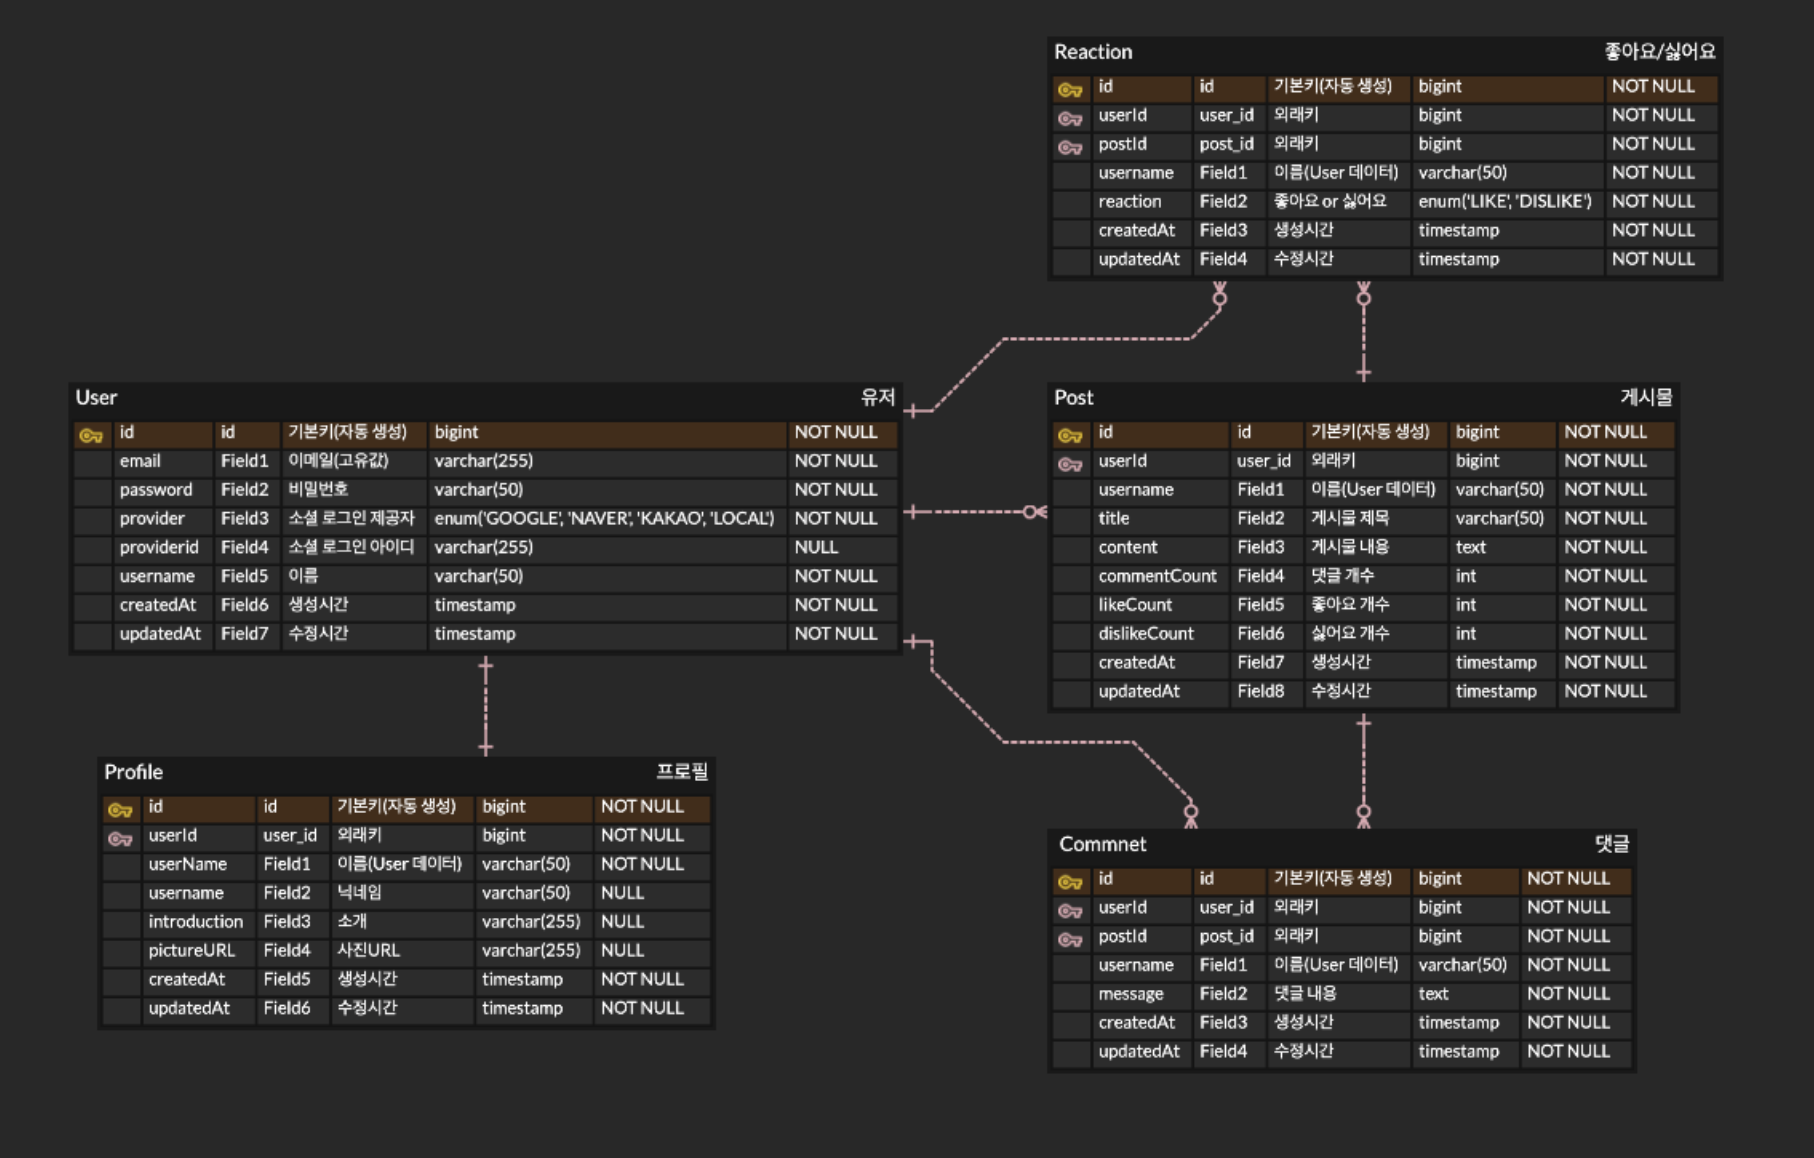
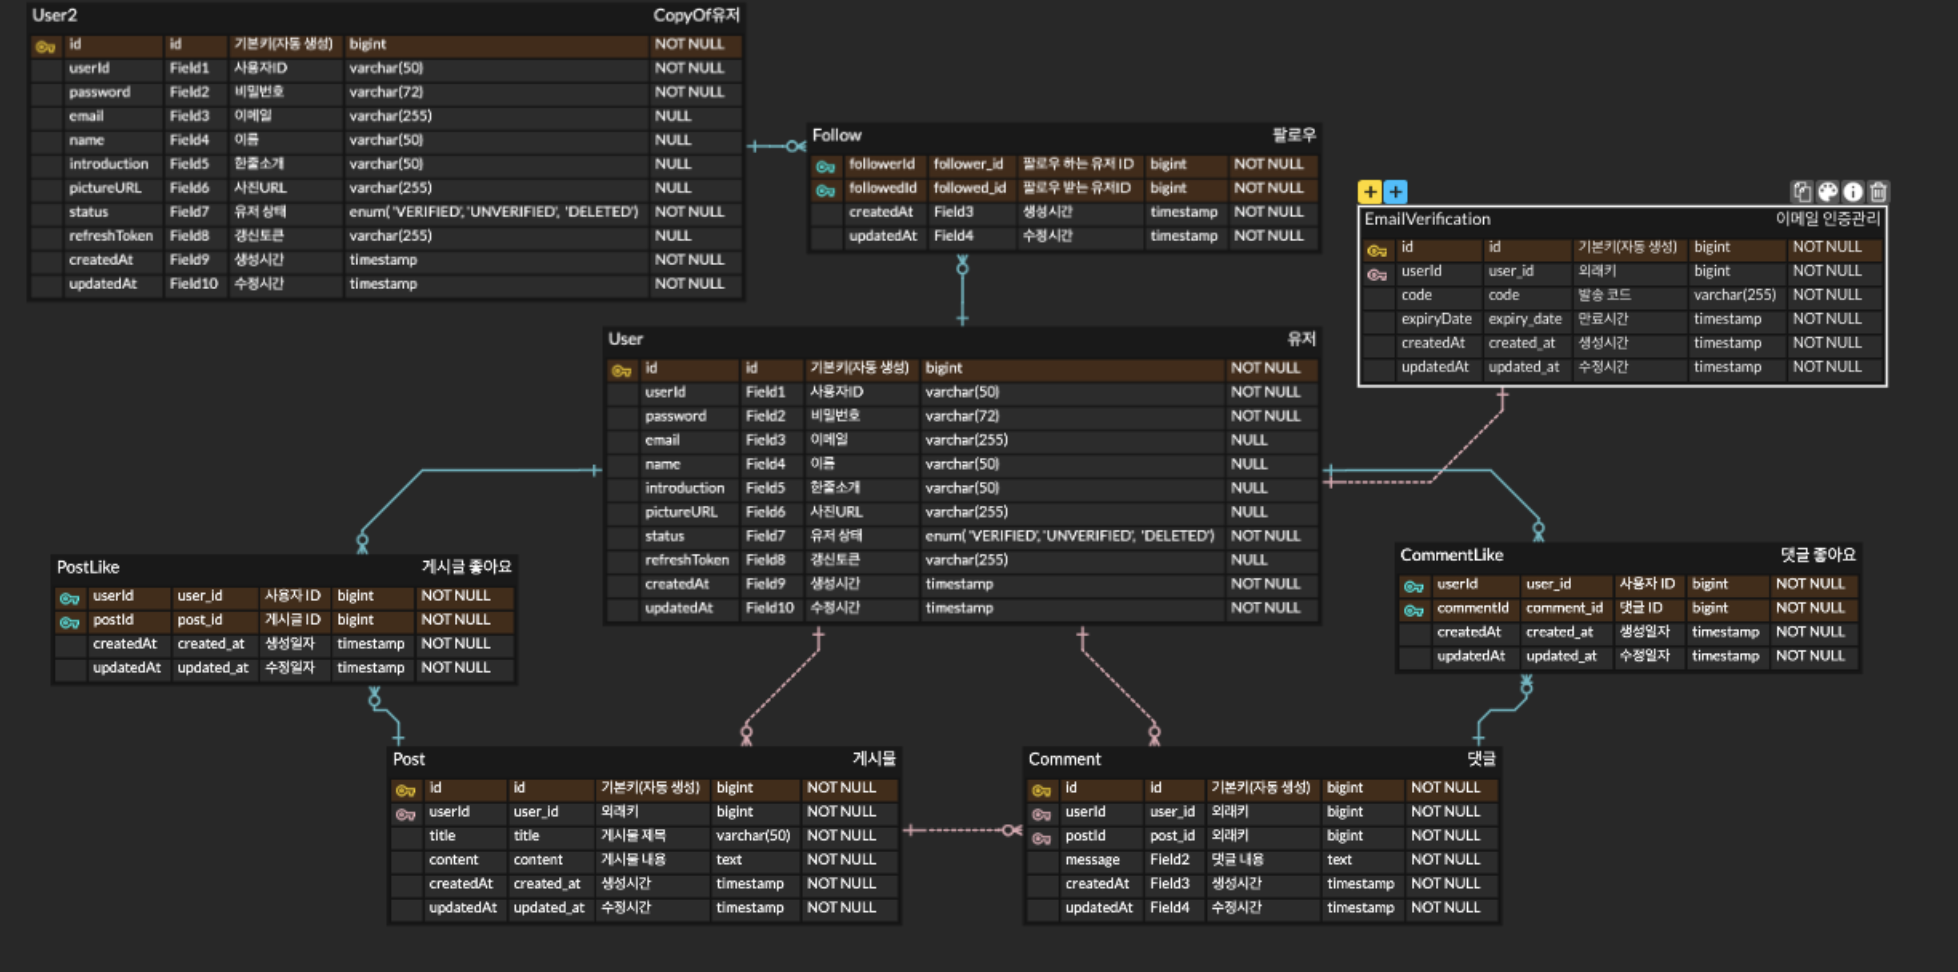
docs : README 수정

Changed region(s): [[0.0, 0.0, 0.9879, 0.9568], [0.6483, 0.679, 0.6792, 0.7099]]

diff --git a/README.md b/README.md
@@ -16,39 +16,29 @@
 - Spring boot
 - JPA
 - MySQL
-- Junit
+- AWS
+- Google SMTP
 
 ### 인증 인가
 
 #### 로그인 인증
-
 - BCryptPasswordEncoder: 비밀번호 암호화 및 검증에 사용됩니다.
 - Spring Security: 애플리케이션의 인증 및 권한 부여를 처리합니다.
 - JWT (JSON Web Token): 인증 토큰으로 사용되며 로그인 성공 시, header에 토큰을 추가하고 성공 상태코드와 메세지를 반환합니다
-    - JWT는 Access Token, Refresh Token을 구현합니다.
-    - Access Token 만료시간 30분, Refresh Token 만료 시간 2주
-    - Access Token 만료 시 :  유효한 Refresh Token을 통해 새로운 Access Token과 Refresh Token을 발급
-    - Refresh Token 만료 시 : 재로그인을 통해 새로운 Access Token과 Refresh Token을 발급
-    - API를 요청할 때 Access Token을 사용합니다
+- JWT는 Access Token, Refresh Token을 구현합니다.
+  - Access Token 만료시간 30분, Refresh Token 만료 시간 2주
+  - Access Token 만료 시 : 유효한 Refresh Token을 통해 새로운 Access Token과 Refresh Token을 발급
+  - Refresh Token 만료 시 : 재로그인을 통해 새로운 Access Token과 Refresh Token을 발급
+  - API를 요청할 때 Access Token을 사용합니다
 
 1. 최초 로그인 처리
-    - 일반 로그인:
-      Spring Security가 사용자의 이메일과 비밀번호를 사용하여 Authentication필터를 통해 인증합니다.
-      사용자의 입력 비밀번호는 BCryptPasswordEncoder를 통해 암호화된 비밀번호와 비교됩니다.
-   
-    - 인증 성공 후 처리:
-      인증이 성공하면 서버  JWT를 생성합니다.
-      생성된 JWT는 헤더에 저장되어 클라이언트에 반환됩니다. (Refresh Token은 사용자의 db에 저장됩니다)
+- 로그인: Spring Security가 사용자의 이메일과 비밀번호를 사용하여 Authentication필터를 통해 인증합니다. 사용자의 입력 비밀번호는 BCryptPasswordEncoder를 통해 암호화된 비밀번호와 비교됩니다.
+- 인증 성공 후 처리: 인증이 성공하면 서버 JWT를 생성합니다. 생성된 JWT는 헤더에 저장되어 클라이언트에 반환됩니다. (Refresh Token은 사용자의 db에 저장됩니다)
 
 2. 이후 요청 처리
-    - JWT 포함 요청:
-      클라이언트는 로그인 성공 시, 이후 모든 요청에 JWT를 header에 토큰을 추가하고 성공 상태코드와 메세지를 포함하여 서버에 전송합니다.
-    - JWT 검증:
-      Spring Security의 필터 체인에 추가된 JWTAuthorization 필터가 모든 요청을 가로채고 JWT를 검증합니다.
-      JWT 필터내에서 JWT의 서명과 만료 시간을 확인하여 유효성을 검증합니다.
-    - 인증된 요청 처리
-      JWT가 유효하면 해당 요청은 인증된 상태로 처리됩니다.
-      인증된 사용자 정보는 SecurityContextHolder에 저장되어 이후의 요청 처리에 사용됩니다.
+- JWT 포함 요청: 클라이언트는 로그인 성공 시, 이후 모든 요청에 JWT를 header에 토큰을 추가하고 성공 상태코드와 메세지를 포함하여 서버에 전송합니다.
+- JWT 검증: Spring Security의 필터 체인에 추가된 JWTAuthorization 필터가 모든 요청을 가로채고 JWT를 검증합니다. JWT 필터내에서 JWT의 서명과 만료 시간을 확인하여 유효성을 검증합니다.
+- 인증된 요청 처리 JWT가 유효하면 해당 요청은 인증된 상태로 처리됩니다. 인증된 사용자 정보는 SecurityContextHolder에 저장되어 이후의 요청 처리에 사용됩니다.
 
 #### CRUD 인가
 
@@ -58,27 +48,26 @@
 
 ### Wireframe
 
-![ERD](src/main/resources/static/img/wireframe.png)
+![WF](src/main/resources/static/img/wireframe.png)
 
 ### 파일 관리
 
 - 도메인별 패키지화 관리
 - domain
-    - user(유저, 소셜계정, 팔로우)
-    - profile(프로필)
+    - user(유저, 이메일 인증 , 팔로우)
     - post(게시물)
     - comment(게시물 댓글)
     - like(게시물 좋아요 , 댓글 좋아요)
 - 각도메인에 대한 entity / service / controller / repository / dto 구분하여 역할에 맞게 관리
 - 인증/ 인가 관련파일 패키지 분리 관리(auth)
+- 공통 사용 파일 폴도 분리 관리(common)
 
 ### ERD
 
 ![ERD](src/main/resources/static/img/erd.png)
 
 ```
-User (1) ----------------- (1) Profile
-User (1) ----------------- (N) SocialAccount
+User (1) ----------------- (1) EmailVerfication
 User (1) ----------------- (N) Follow  ----------------- User(1)
 User (1) ----------------- (N) Post
 User (1) ----------------- (N) Comment
@@ -105,7 +94,7 @@ Comment(1) ----------------- (N) CommentLike
 | 401        | C007 | Unauthorized          | 인증이 필요합니다.          |
 | 409        | C008 | Duplicate entity      | 중복된 엔티티입니다.         |
 
-### API 명세서
+
 
 ## 역할 분담, 구현
 
@@ -115,116 +104,20 @@ Comment(1) ----------------- (N) CommentLike
 - `CRUD` 중심으로 구현
 - DB정보 변경 서비스 로직 트랜잭션을 적용(`@Transactional`)
 - 위에 명시된 상태코드 사용하여 요청에 따른 `ResponseDTO` 던져주기
+- `Timestamped` 를 상속받아 엔티티 구현
 - 종속 데이터 도메인 작업은 각각 로컬 DB사용하므로 개인적으로 임시적으로 SQL 스크립트를 사용하여 임시데이터를 만들어 (유저, 게시물) 테이블을 생성하고 데이터를 삽입해보는
   방식으로 데이터 연결 확인
-- `Junit` 사용해 단위 테스트 코드 작성
+- `Restful`한 api 설계 , 팀노션에 작성
+- 자신의 역할에 해당되는 구현 체크리스트 팀노션에 작성 및 체크
 
 
-### User Part 
-#### 회원 가입 
-- [x] 회원가입 구현(아이디, 비밀번호, 이메일 입력)  // 이메일 가입및 인증 단계를 회원가입 처음부터 아이디와 비밀번호 이메일를 요구하고 이메일을 인증단계를 이어지게 하였습니다
-- [x] 이메일 인증 기능을 통해 본인 이메일 확인
-- [x] 이메일 인증이 완료되지 않은 상태여도 회원DB에 저장은 되지만 상태를 'UNVERIFIED'로 상태를 관리
-- [x] 이메일 회원가입시 인증번호 입력을 180초 안에 하지 않으면 유효하지 않음.
-- [x] 이메일 인증까지 완료하면 유저 상태를 'VERIFIED' 로 관리
-- [x] 비밀 번호는 Bcrypt로 단방향-인코딩합니다.
+### User Part -> 이은규
 
-- 예외처리
-  - [x] 중복된 ID, 탈퇴한 ID로는 회원가입 할 수 없습니다.
-  - [x] 사용자 ID는 대소문자 포함 영문 + 숫자만을 허용합니다.
-  - [x] 사용자 ID는 최소 10글자 이상, 최대 20글자 이하여야 합니다.
-  - [x] 비밀번호는 대소문자 포함 영문 + 숫자 + 특수문자를 최소 1글자씩 포함합니다.
-  - [x] 비밀번호는 최소 10글자 이상이어야 합니다
-  - [x] 비밀번호는 대소문자 포함 영문 + 숫자 + 특수문자를 최소 1글자씩 포함합니다.
-  - [x] 비밀번호는 최소 10글자 이상이어야 합니다.
-  
-#### 로그인
-- [x] 아이디를 통한 로그인(아이디, 비밀번호입력)
-    - [x] 가입되지 않은 사용자 로그인시도 예외처리
-    - [x] 이메일 인증되지 않은 사용자 예외처리
-    - [x] 탈퇴한 사용자 예외처리
-- [x] 이메일인증이 완료된 사용자의 계정으로 로그인 성공시 Access토큰과 Refresh토큰 발급
-    - [x] Refresh토큰은 사용자db와 헤더 모두에 저장
-    - [x] Access토큰은 헤더에저장
-    - [x] 
+### Post Part -> 김정민
 
+### Comment Part -> 어동선
 
-- 예외처리
-  - [x] 유효하지 않은 사용자 정보로 로그인을 시도한 경우 예외처리
-  - [x] 사용자 ID와 비밀번호가 일치하지 않는 사용자 정보로 로그인을 시도한 경우 예외처리
+### Like Part -> 양소영
 
-#### 회원정보 조회
-- [x] 사용자 ID, 이름, 한 줄 소개, 이메일, 사진을 볼 수 있습니다.
-- [x] ID(사용자 ID X), 비밀번호, 생성일자, 수정일자와 같은 데이터는 노출하지 않습니다.
+### Auth Part -> 강현지
 
-#### 회원정보 수정
-- [x] 이름 등록(수정)
-  - [x] 이름은 최대 10자까지 입력 가능 (예외처리)
-- [x] 한줄소개 등록(수정)
-  - [x] 한줄소개는 쵀대 20자까지 입력 가능 (예외처리)
-- [x] 사진 등록(수정)
-  - [x] 프로필 사진을 저장할 때는 반드시 AWS S3를 이용합니다.
-- [x] 비밀 번호 수정
-    - [x] 비밀번호 수정시, 기존 비밀번호를 입력 받습니다 
-    - [x] 새로운 비밀번호 역시 회원가입때와 동일하게 유효성검사 실시하여 예외처리
-    - [x] 비밀번호 수정 시, 본인 확인을 위해 입력한 현재 비밀번호가 일치하지 않은 경우 예외처리
-    - [x] 현재 비밀번호와 동일한 비밀번호로 수정하는 경우 예외처리
-
-#### 로그아웃
-- [x] 로그아웃시 refresh토큰과 access토큰 무효화
-- [x] 토큰유효성 검증하여 예외처리
-- [x] 유저에 저장된 refresh토큰 무효화
-- [x] 찾을수 없는 사용자 예외처리
-
-
-#### 회원 탈퇴
-- [x] 회원탈퇴시 상태를 유저 상태를 'DELETED'로 관리
-- [x] 회원탈퇴시 Access토큰과 Refresh 토큰의 무효화
-- [x] 유저에 저장된 
-
-
-#### 팔로우
-
-- [ ] 특정 사용자를 팔로우 / 언팔로우를 할 수 있습니다.
-
-### Profile Part
-
-### Post Part
-
-- [ ] 게시물 생성
-    - [ ] JWT 인증 처리
-    - [ ] 사용자 본인 확인
-    - [ ] 필드 검증
-    - [ ] 성공/실패 처리
-- [ ] 게시물 조회
-    - [ ] 전체 게시물 조회
-    - [ ] 팔로잉 유저들의 전체 게시물 조회
-        - [ ] 미리 사용자 로그인 되어있어야 함
-    - [ ] 특정 유저의 전체 게시물 조회
-    - [ ] 특정 유저의 특정 게시물 조회
-- [ ] 게시물 수정
-    - [ ] JWT 인증 처리
-    - [ ] 사용자 본인 확인
-    - [ ] 필드 검증
-    - [ ] 제목, 내용 변경 가능
-    - [ ] 성공/실패 처리
-- [ ] 게시물 삭제
-    - [ ] JWT 인증 처리
-    - [ ] 사용자 본인 확인
-    - [ ] 필드 검증
-    - [ ] 댓글까지 삭제
-    - [ ] 성공/실패 처리
-
-### Comment Part
-
-### Like Part
-
-## Auth Part
-로그인 처리
-    - [ ] 로그인 시 클라이언트에게 토큰을 발행합니다.
-    - [ ] 로그인 성공 시, header에 토큰을 추가하고 성공 상태코드와 메세지를 반환합니다.
-   
-
-#### 로그아웃
-- [ ] 로그아웃 시, 발행한 토큰은 초기화 합니다.
-- [ ] 로그아웃 후 초기화 된 Refresh Token은 재사용할 수 없고, 재로그인해야 합니다
